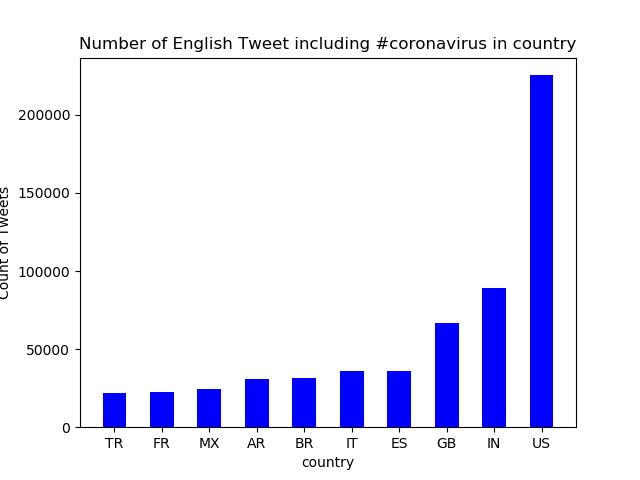
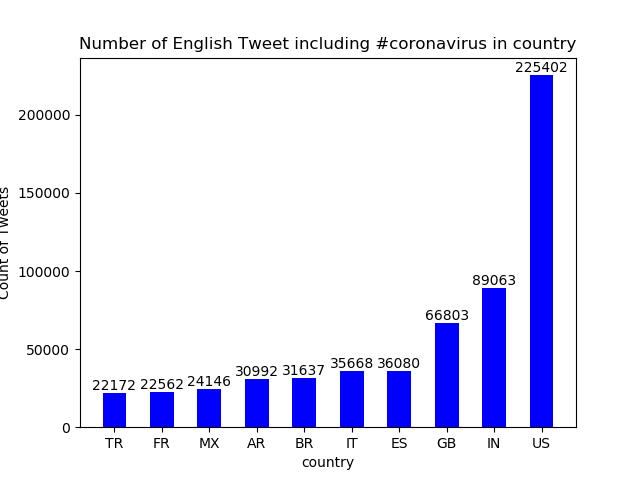
added number in barplot

diff --git a/src/visualize.py b/src/visualize.py
@@ -33,8 +33,8 @@ if args.percent:
 
 # print the count values
 items = sorted(counts[args.key].items(), key=lambda item: (item[1],item[0]), reverse=True)
-for k,v in items:
-    print(k,':',v)
+#for k,v in items:
+#    print(k,':',v)
 
 # import matlap
 #import matplotlib
@@ -45,7 +45,7 @@ for k,v in items:
 # top 10
 items_top = sorted(items[:10], key=lambda x: x[1], reverse = False)
 x,y = zip(*items_top)
-print(x,y)
+#print(x,y)
 
 # English or Korean
 if args.input_path == "reduced.country":
@@ -60,13 +60,16 @@ else:
 
 # plot
 
-plt.bar(range(len(x)), y, color = "blue", width = 0.5)
+barplot = plt.bar(range(len(x)), y, color = "blue", width = 0.5)
 #print(x, len(x), range(len(x)))
 plt.xticks(range(len(x)),x)
 #plt.xticklabels(x)
 plt.xlabel(category)
 plt.ylabel("Count of Tweets")
 plt.title("Number of " + language + " Tweet including " + args.key + " in " + category)
+for rect in barplot:
+    height = rect.get_height()
+    plt.text(rect.get_x() + rect.get_width() / 2.0, height, f'{height:.0f}', ha='center', va='bottom')
 #plt.legend()
 
 plt.savefig(f"{language}_{category}.png")

diff --git a/README.md b/README.md
@@ -170,6 +170,21 @@ Complete the following tasks:
     This explanation should be suitable for a future employer to look at while they are interviewing you to get a rough idea of what you accomplished.
     (And you should tell them about this in your interviews!)
 
+1. Commit all of your code and visualization output files to your github repo and push the results to github.
+    You must edit the `README.md` file to provide a brief explanation of your results.
+    This explanation should be suitable for a future employer to look at while they are interviewing you to get a rough idea of what you accomplished.
+    (And you should tell them about this in your interviews!)
+
+## Result and Discussion
+
+a. tweets in language 
+<img src=English_language.png width=100% />
+<img src=Korean_language.png width=100% /> 
+
+
+
+
+
 ## Submission
 
 Upload a link to you github repository on sakai.
